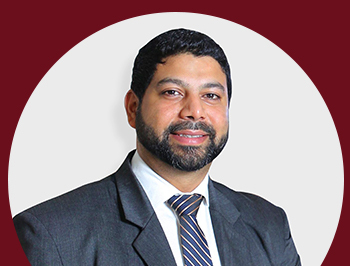
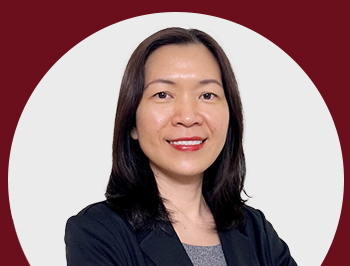
fix

diff --git a/source/index_vn_1_ver2.html b/source/index_vn_1_ver2.html
@@ -121,7 +121,7 @@
                       <td style="padding: 0; margin: 0; border: none; line-height: 1.3; font-size: 16px; font-family: Arial, Helvetica, sans-serif !important; color: #FFFFFF;">&nbsp;</td>
                     </tr>
                     <tr>
-                      <td align="left" style="padding: 0 0 0 28px; margin: 0; border: none; line-height: 1.3; font-size: 16px; font-family: Arial, Helvetica, sans-serif !important; color: #FFFFFF;">Thứ 5, ngày 01/12/2022, 17:30 - 19:00</td>
+                      <td align="left" style="padding: 0 0 0 28px; margin: 0; border: none; line-height: 1.3; font-size: 16px; font-family: Arial, Helvetica, sans-serif !important; color: #FFFFFF;">Thứ 5, ngày 01/12/2022, 17:30 - 18:30</td>
                     </tr>
                     <tr>
                       <td height="28" style="padding: 0; margin: 0; border: none; line-height: 1.3; font-size: 16px; font-family: Arial, Helvetica, sans-serif !important; color: #FFFFFF;">&nbsp;</td>
@@ -149,7 +149,7 @@
                       <td height="28" style="padding: 0; margin: 0; border: none; line-height: 1.3; font-size: 16px; font-family: Arial, Helvetica, sans-serif !important; color: #000000;">&nbsp;</td>
                     </tr>
                     <tr>
-                      <td align="center" style="padding: 0; margin: 0; border: none; line-height: 1.3; font-size: 20px; font-family: Arial, Helvetica, sans-serif !important; color: #FFFFFF;"><strong>17:30 - 17:45</strong></td>
+                      <td align="center" style="padding: 0; margin: 0; border: none; line-height: 1.3; font-size: 20px; font-family: Arial, Helvetica, sans-serif !important; color: #FFFFFF;"><strong>17:30 - 17:35</strong></td>
                     </tr>
                     <tr>
                       <td align="center" style="padding: 0; margin: 0; border: none; line-height: 1.3; font-size: 16px; font-family: Arial, Helvetica, sans-serif !important; color: #FFFFFF;">Khai mạc và phát biểu chào mừng từ đại diện<br />
@@ -162,31 +162,19 @@
                       <td align="center" style="padding: 0 28px 0 28px; margin: 0; border: none; line-height: 1.3; font-size: 16px; font-family: Arial, Helvetica, sans-serif !important; color: #FFFFFF;"><table width="100%" border="0" cellpadding="0" cellspacing="0" class="chs_body">
 						  <tr>
 							  <td width="265" align="center" style="padding: 0; margin: 0; border: none; line-height: 1.3; font-size: 16px; font-family: Arial, Helvetica, sans-serif !important; color: #FFFFFF;"><img src="image/chs_box_1.jpg" width="175" height="auto" alt="" style="display: block" /></td>
-							  <td align="center" style="padding: 0; margin: 0; border: none; line-height: 1.3; font-size: 16px; font-family: Arial, Helvetica, sans-serif !important; color: #FFFFFF;"><img src="image/chs_box_10.jpg" width="175" height="auto" alt="" style="display: block" /></td>
-							</tr>
+						    </tr>
 						  <tr>
 						    <td align="center" style="padding: 0; margin: 0; border: none; line-height: 1.3; font-size: 16px; font-family: Arial, Helvetica, sans-serif !important; color: #FFFFFF;"><table width="100%" border="0" cellpadding="0" cellspacing="0" class="chs_body">
 								<tr>
 								  <td align="right" style="padding: 0; margin: 0; border: none; line-height: 1.3; font-size: 16px; font-family: Arial, Helvetica, sans-serif !important;"><img src="image/chs_box_7.jpg" width="21" height="auto" alt="" style="display: block" /></td>
-									<td width="190" bgcolor="#db0011" align="center" valign="middle" style="padding: 0; margin: 0; border: none; line-height: 1.3; font-size: 16px; font-family: Arial, Helvetica, sans-serif !important; color: #FFFFFF"><strong>ÔNG PRAMOTH RAJENDRAN</strong></td>
+									<td width="200" bgcolor="#db0011" align="center" valign="middle" style="padding: 0; margin: 0; border: none; line-height: 1.3; font-size: 16px; font-family: Arial, Helvetica, sans-serif !important; color: #FFFFFF"><strong>BÀ VƯƠNG LỆ MINH</strong></td>
 								  <td align="left" style="padding: 0; margin: 0; border: none; line-height: 1.3; font-size: 16px; font-family: Arial, Helvetica, sans-serif !important;"><img src="image/chs_box_8.jpg" width="21" height="auto" alt="" style="display: block" /></td>
 								</tr>
 								</table></td>
-							  <td align="center" style="padding: 0; margin: 0; border: none; line-height: 1.3; font-size: 16px; font-family: Arial, Helvetica, sans-serif !important; color: #FFFFFF;"><table width="100%" border="0" cellpadding="0" cellspacing="0" class="chs_body">
-								<tr>
-								  <td align="right" style="padding: 0; margin: 0; border: none; line-height: 1.3; font-size: 16px; font-family: Arial, Helvetica, sans-serif !important;"><img src="image/chs_box_7.jpg" width="21" height="auto" alt="" style="display: block" /></td>
-									<td width="190" bgcolor="#db0011" align="center" valign="middle" style="padding: 0; margin: 0; border: none; line-height: 1.3; font-size: 16px; font-family: Arial, Helvetica, sans-serif !important; color: #FFFFFF"><strong>ÔNG BROOK TAYLOR</strong></td>
-								  <td align="left" style="padding: 0; margin: 0; border: none; line-height: 1.3; font-size: 16px; font-family: Arial, Helvetica, sans-serif !important;"><img src="image/chs_box_8.jpg" width="21" height="auto" alt="" style="display: block" /></td>
-								</tr>
-								</table></td>
-					      </tr>
+						  </tr>
 						  <tr>
-							  <td align="center" valign="top" style="padding: 15px 28px 0 28px; margin: 0; border: none; line-height: 1.3; font-size: 14px; font-family: Arial, Helvetica, sans-serif !important; color: #FFFFFF;"><strong>Giám đốc toàn quốc<br />
-						      Khối Dịch vụ Quản lý Tài sản<br />
-và Tài chính Cá nhân, HSBC</strong></td>
-							  <td align="center" valign="top" style="padding: 15px 10px 0 10px; margin: 0; border: none; line-height: 1.3; font-size: 14px; font-family: Arial, Helvetica, sans-serif !important; color: #FFFFFF;"><strong>Tổng giám đốc<br />
-						      Công ty Cổ phần quản lý Quỹ,<br />
-						      VinaCapital</strong></td>
+							  <td align="center" valign="top" style="padding: 15px 28px 0 28px; margin: 0; border: none; line-height: 1.3; font-size: 14px; font-family: Arial, Helvetica, sans-serif !important; color: #FFFFFF;"><strong>Trưởng bộ phận chiến lược sản phẩm<br />
+Đầu tư và Bảo hiểm, HSBC</strong></td>
 						  </tr>
 						  </table></td>
                     </tr>
@@ -203,7 +191,7 @@ và Tài chính Cá nhân, HSBC</strong></td>
                       <td align="center" style="padding: 0; margin: 0; border: none; line-height: 1.3; font-size: 16px; font-family: Arial, Helvetica, sans-serif !important; color: #FFFFFF;">&nbsp;</td>
                     </tr>
                     <tr>
-                      <td align="center" style="padding: 0; margin: 0; border: none; line-height: 1.3; font-size: 20px; font-family: Arial, Helvetica, sans-serif !important; color: #FFFFFF;"><strong>17:45 - 18:25</strong></td>
+                      <td align="center" style="padding: 0; margin: 0; border: none; line-height: 1.3; font-size: 20px; font-family: Arial, Helvetica, sans-serif !important; color: #FFFFFF;"><strong>17:35 - 18:05</strong></td>
                     </tr>
                     <tr>
                       <td align="center" style="padding: 0; margin: 0; border: none; line-height: 1.3; font-size: 16px; font-family: Arial, Helvetica, sans-serif !important; color: #FFFFFF;">Chia sẻ từ diễn giả</td>
@@ -283,7 +271,7 @@ VinaCapital<br />
                       <td align="center" style="padding: 0; margin: 0; border: none; line-height: 1.3; font-size: 16px; font-family: Arial, Helvetica, sans-serif !important; color: #FFFFFF;">&nbsp;</td>
                     </tr>
                     <tr>
-                      <td align="center" style="padding: 0; margin: 0; border: none; line-height: 1.3; font-size: 20px; font-family: Arial, Helvetica, sans-serif !important; color: #FFFFFF;"><strong>18:25 - 18:55</strong></td>
+                      <td align="center" style="padding: 0; margin: 0; border: none; line-height: 1.3; font-size: 20px; font-family: Arial, Helvetica, sans-serif !important; color: #FFFFFF;"><strong>18:05 - 18:30</strong></td>
                     </tr>
                     <tr>
                       <td align="center" style="padding: 0; margin: 0; border: none; line-height: 1.3; font-size: 16px; font-family: Arial, Helvetica, sans-serif !important; color: #FFFFFF;">Hỏi đáp trực tiếp với diễn giả</td>
@@ -301,7 +289,7 @@ VinaCapital<br />
                       <td align="center" style="padding: 0; margin: 0; border: none; line-height: 1.3; font-size: 16px; font-family: Arial, Helvetica, sans-serif !important; color: #FFFFFF;">&nbsp;</td>
                     </tr>
                     <tr>
-                      <td align="center" style="padding: 0; margin: 0; border: none; line-height: 1.3; font-size: 20px; font-family: Arial, Helvetica, sans-serif !important; color: #FFFFFF;"><strong>19:00</strong></td>
+                      <td align="center" style="padding: 0; margin: 0; border: none; line-height: 1.3; font-size: 20px; font-family: Arial, Helvetica, sans-serif !important; color: #FFFFFF;"><strong>18:30</strong></td>
                     </tr>
                     <tr>
                       <td align="center" style="padding: 0; margin: 0; border: none; line-height: 1.3; font-size: 16px; font-family: Arial, Helvetica, sans-serif !important; color: #FFFFFF;">Kết thúc hội thảo</td>
